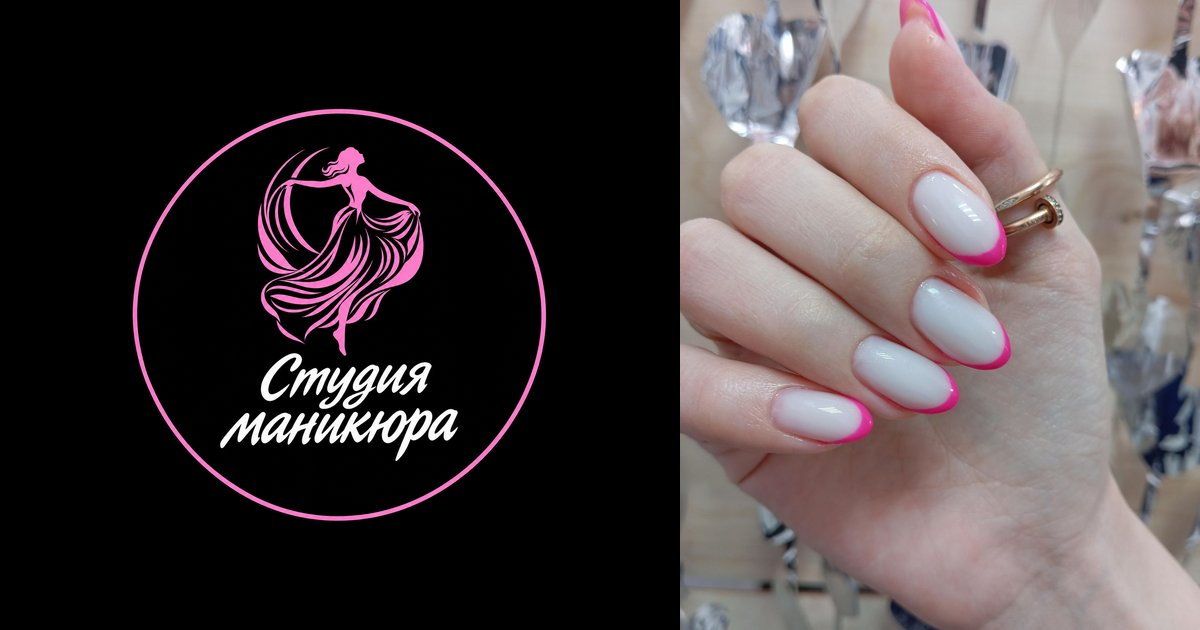
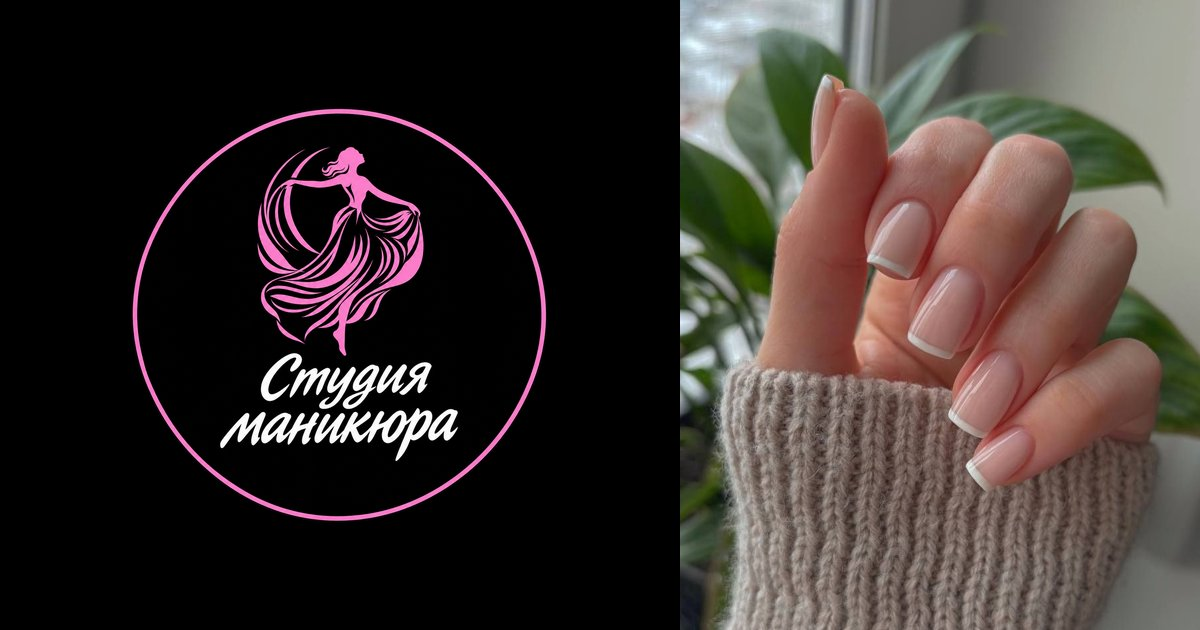
Обложка: фото «Тонкий френч» в арке первого экрана и в превью ссылки
Claude-Session: https://claude.ai/code/session_01H6sQxEUmnXnfCJ9RvagYCX

diff --git a/index.html b/index.html
@@ -23,7 +23,7 @@
   <meta property="og:image" content="https://serjayvazyan-2000.github.io/nail-studio/assets/images/og-image.jpg">
   <meta property="og:image:width" content="1200">
   <meta property="og:image:height" content="630">
-  <meta property="og:image:alt" content="Логотип студии маникюра и пример работы — розовый френч">
+  <meta property="og:image:alt" content="Логотип студии маникюра и пример работы — тонкий френч">
   <meta name="twitter:card" content="summary_large_image">
   <meta name="twitter:title" content="Студия маникюра в Бийске">
   <meta name="twitter:description" content="Маникюр, педикюр и уход в одной студии. Рейтинг 5.0 в 2ГИС.">
@@ -101,7 +101,7 @@
   <link rel="preconnect" href="https://fonts.googleapis.com">
   <link rel="preconnect" href="https://fonts.gstatic.com" crossorigin>
   <link href="https://fonts.googleapis.com/css2?family=Unbounded:wght@400;500;600;700&family=Marck+Script&family=Manrope:wght@400;500;600;700&display=swap" rel="stylesheet">
-  <link rel="preload" as="image" href="assets/images/nails-pink-french.jpg">
+  <link rel="preload" as="image" href="assets/images/nails-french.jpg">
   <link rel="stylesheet" href="style.css">
 </head>
 <body class="is-loading">
@@ -211,7 +211,7 @@
 
         <div class="hero__stage" aria-hidden="true">
           <div class="hero__arch" data-depth="0.25">
-            <img src="assets/images/nails-pink-french.jpg" alt="" class="hero__arch-img" data-depth-inner>
+            <img src="assets/images/nails-french.jpg" alt="" class="hero__arch-img" data-depth-inner>
           </div>
           <div class="hero__bubble" data-depth="0.55">
             <img src="assets/images/nails-hot-pink.jpg" alt="">

diff --git a/assets/css/sections.css b/assets/css/sections.css
@@ -153,7 +153,7 @@
   position: absolute; inset: 0;
   background: linear-gradient(180deg, transparent 50%, rgba(18, 12, 16, .55));
 }
-.hero__arch-img { width: 100%; height: 115%; object-fit: cover; transform: scale(1.2); }
+.hero__arch-img { width: 100%; height: 115%; object-fit: cover; object-position: 50% 35%; transform: scale(1.2); }
 .hero__bubble {
   position: absolute;
   width: 34%;
